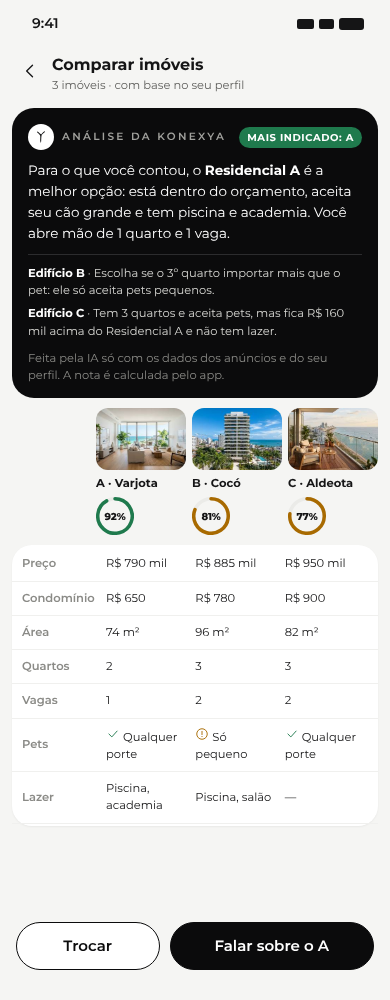
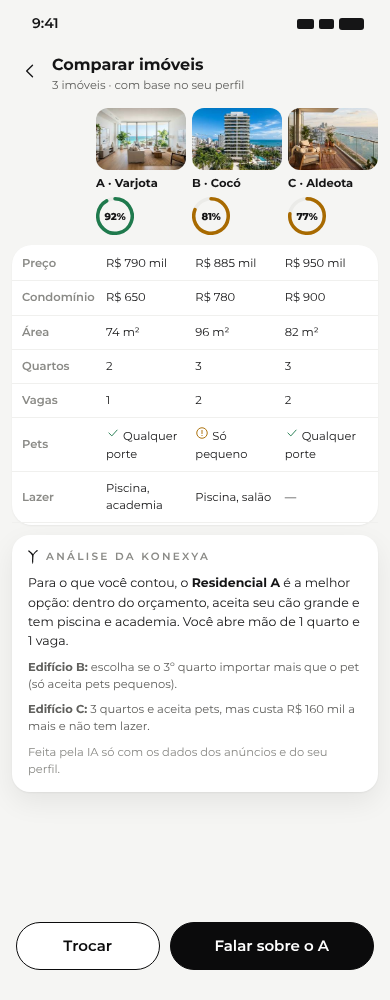
Desenho C-08: análise abaixo da tabela, em cartão leve
Claude-Session: https://claude.ai/code/session_014NosJ4Bs7iu2Vt7Aj83thk

diff --git a/docs/desenhos/etapa3/etapa3.html b/docs/desenhos/etapa3/etapa3.html
@@ -197,20 +197,18 @@ body{background:#d9d9d5}
 </div><div class="compose"><div class="in">Escreva uma mensagem…</div><div class="sendb"><svg data-k="i:send" class="ico " width="19" height="19" viewBox="0 0 24 24" fill="none" stroke="currentColor" stroke-width="1.6" stroke-linecap="round" stroke-linejoin="round"><path d="M4 12 20 4l-6 16-3-7-7-1z"/></svg></div></div><div class="tabs"><div class=""><svg data-k="i:chat" class="ico " width="22" height="22" viewBox="0 0 24 24" fill="none" stroke="currentColor" stroke-width="1.6" stroke-linecap="round" stroke-linejoin="round"><path d="M21 12a8 8 0 0 1-11.6 7.1L4 20l1-4.6A8 8 0 1 1 21 12z"/></svg>Conversa</div><div class="on"><svg data-k="i:broker" class="ico " width="22" height="22" viewBox="0 0 24 24" fill="none" stroke="currentColor" stroke-width="1.6" stroke-linecap="round" stroke-linejoin="round"><path d="M4 5h16v11H9l-5 4z"/><path d="M8 9.5h8M8 12.5h5"/></svg>Corretor<b></b></div><div class=""><svg data-k="i:user" class="ico " width="22" height="22" viewBox="0 0 24 24" fill="none" stroke="currentColor" stroke-width="1.6" stroke-linecap="round" stroke-linejoin="round"><circle cx="12" cy="8" r="4"/><path d="M4 21a8 8 0 0 1 16 0"/></svg>Perfil</div></div></section><section class="frame m" data-name="C-08 Comparação com análise" style="height:1000px"><div class="sb" style="color:#151516"><span>9:41</span><div class="sbi"><i style="width:17px;height:10px;background:#151516"></i><i style="width:15px;height:10px;background:#151516"></i><i style="width:25px;height:12px;border-radius:3px;background:#151516"></i></div></div>
 <div class="hd"><span><svg data-k="i:back" class="ico " width="20" height="20" viewBox="0 0 24 24" fill="none" stroke="currentColor" stroke-width="1.6" stroke-linecap="round" stroke-linejoin="round"><path d="M15 5l-7 7 7 7"/></svg></span><div style="flex:1"><b style="font-size:16px">Comparar imóveis</b><p class="xs muted">3 imóveis · com base no seu perfil</p></div></div>
 <div style="padding:0 12px;display:flex;flex-direction:column;gap:10px;flex:1">
-<div style="background:#0b0b0c;color:#fff;border-radius:22px;padding:16px 16px 14px;display:flex;flex-direction:column;gap:10px">
-  <div class="between"><div class="row" style="gap:8px"><div class="yav" style="width:26px;height:26px;background:#fff"><svg data-k="y" width="8" height="12" viewBox="0 0 581.0 838.0"><path fill="#0b0b0c" fill-rule="evenodd" d="M538 0 L529 2 L474 47 L373 150 L305 238 L305 245 L316 257 L316 263 L261 206 L232 187 L185 139 L154 117 L143 106 L137 93 L89 56 L56 19 L51 17 L42 18 L25 33 L0 60 L0 71 L3 75 L50 113 L73 136 L89 147 L161 217 L179 240 L201 278 L229 312 L234 324 L239 357 L237 421 L240 460 L234 616 L234 683 L242 714 L246 743 L246 767 L252 804 L252 828 L260 837 L269 835 L273 830 L274 813 L280 805 L286 783 L299 753 L305 719 L303 621 L307 603 L307 547 L311 510 L311 470 L321 375 L321 343 L326 321 L332 304 L345 282 L347 273 L396 210 L462 142 L491 120 L502 108 L527 92 L538 80 L557 71 L569 69 L577 64 L580 51 L574 37 L565 28 L549 17 L545 6Z"/></svg></div><span class="trk" style="color:#a1a19d">Análise da Konexya</span></div><span class="tag" style="background:#1f7a4d;color:#fff">Mais indicado: A</span></div>
-  <p style="font-size:13.5px;line-height:1.55">Para o que você contou, o <b>Residencial A</b> é a melhor opção: está dentro do orçamento, aceita seu cão grande e tem piscina e academia. Você abre mão de 1 quarto e 1 vaga.</p>
-  <div style="display:flex;flex-direction:column;gap:6px;border-top:1px solid #2c2c2e;padding-top:10px">
-    <p class="xs" style="line-height:1.5;color:#d6d6d2"><b style="color:#fff">Edifício B</b> · Escolha se o 3º quarto importar mais que o pet: ele só aceita pets pequenos.</p>
-    <p class="xs" style="line-height:1.5;color:#d6d6d2"><b style="color:#fff">Edifício C</b> · Tem 3 quartos e aceita pets, mas fica R$ 160 mil acima do Residencial A e não tem lazer.</p>
-  </div>
-  <p class="xs" style="color:#8a8a86">Feita pela IA só com os dados dos anúncios e do seu perfil. A nota é calculada pelo app.</p>
-</div>
 <div style="display:grid;grid-template-columns:78px 1fr 1fr 1fr;gap:6px">
[1 lines of base64/hex data omitted]
 </div>
 <div class="group" style="padding:2px 0">
 <div style="display:grid;grid-template-columns:78px 1fr 1fr 1fr;gap:6px;padding:8px 10px;border-bottom:1px solid #f0f0ee;align-items:center"><span class="xs muted2" style="font-weight:600">Preço</span><span class=xs>R$ 790 mil</span><span class=xs>R$ 885 mil</span><span class=xs>R$ 950 mil</span></div><div style="display:grid;grid-template-columns:78px 1fr 1fr 1fr;gap:6px;padding:8px 10px;border-bottom:1px solid #f0f0ee;align-items:center"><span class="xs muted2" style="font-weight:600">Condomínio</span><span class=xs>R$ 650</span><span class=xs>R$ 780</span><span class=xs>R$ 900</span></div><div style="display:grid;grid-template-columns:78px 1fr 1fr 1fr;gap:6px;padding:8px 10px;border-bottom:1px solid #f0f0ee;align-items:center"><span class="xs muted2" style="font-weight:600">Área</span><span class=xs>74 m²</span><span class=xs>96 m²</span><span class=xs>82 m²</span></div><div style="display:grid;grid-template-columns:78px 1fr 1fr 1fr;gap:6px;padding:8px 10px;border-bottom:1px solid #f0f0ee;align-items:center"><span class="xs muted2" style="font-weight:600">Quartos</span><span class=xs>2</span><span class=xs>3</span><span class=xs>3</span></div><div style="display:grid;grid-template-columns:78px 1fr 1fr 1fr;gap:6px;padding:8px 10px;border-bottom:1px solid #f0f0ee;align-items:center"><span class="xs muted2" style="font-weight:600">Vagas</span><span class=xs>1</span><span class=xs>2</span><span class=xs>2</span></div><div style="display:grid;grid-template-columns:78px 1fr 1fr 1fr;gap:6px;padding:8px 10px;border-bottom:1px solid #f0f0ee;align-items:center"><span class="xs muted2" style="font-weight:600">Pets</span><span class=xs><span class="ok"><svg data-k="i:check" class="ico " width="14" height="14" viewBox="0 0 24 24" fill="none" stroke="currentColor" stroke-width="1.6" stroke-linecap="round" stroke-linejoin="round"><path d="m5 12 5 5 9-10"/></svg></span> Qualquer porte</span><span class=xs><span class="warn"><svg data-k="i:alert" class="ico " width="14" height="14" viewBox="0 0 24 24" fill="none" stroke="currentColor" stroke-width="1.6" stroke-linecap="round" stroke-linejoin="round"><circle cx="12" cy="12" r="9"/><path d="M12 7.5v5.5M12 16.2v.3"/></svg></span> Só pequeno</span><span class=xs><span class="ok"><svg data-k="i:check" class="ico " width="14" height="14" viewBox="0 0 24 24" fill="none" stroke="currentColor" stroke-width="1.6" stroke-linecap="round" stroke-linejoin="round"><path d="m5 12 5 5 9-10"/></svg></span> Qualquer porte</span></div><div style="display:grid;grid-template-columns:78px 1fr 1fr 1fr;gap:6px;padding:8px 10px;border-bottom:1px solid #f0f0ee;align-items:center"><span class="xs muted2" style="font-weight:600">Lazer</span><span class=xs>Piscina, academia</span><span class=xs>Piscina, salão</span><span class=xs>—</span></div>
+</div>
+<div class="wcard" style="padding:14px 16px;display:flex;flex-direction:column;gap:8px;border-radius:18px">
+  <div class="row" style="gap:8px"><svg data-k="y" width="10" height="14" viewBox="0 0 581.0 838.0"><path fill="#0b0b0c" fill-rule="evenodd" d="M538 0 L529 2 L474 47 L373 150 L305 238 L305 245 L316 257 L316 263 L261 206 L232 187 L185 139 L154 117 L143 106 L137 93 L89 56 L56 19 L51 17 L42 18 L25 33 L0 60 L0 71 L3 75 L50 113 L73 136 L89 147 L161 217 L179 240 L201 278 L229 312 L234 324 L239 357 L237 421 L240 460 L234 616 L234 683 L242 714 L246 743 L246 767 L252 804 L252 828 L260 837 L269 835 L273 830 L274 813 L280 805 L286 783 L299 753 L305 719 L303 621 L307 603 L307 547 L311 510 L311 470 L321 375 L321 343 L326 321 L332 304 L345 282 L347 273 L396 210 L462 142 L491 120 L502 108 L527 92 L538 80 L557 71 L569 69 L577 64 L580 51 L574 37 L565 28 L549 17 L545 6Z"/></svg><span class="trk">Análise da Konexya</span></div>
+  <p class="small" style="line-height:1.55">Para o que você contou, o <b>Residencial A</b> é a melhor opção: dentro do orçamento, aceita seu cão grande e tem piscina e academia. Você abre mão de 1 quarto e 1 vaga.</p>
+  <p class="xs muted" style="line-height:1.5"><b class="ink">Edifício B:</b> escolha se o 3º quarto importar mais que o pet (só aceita pets pequenos).</p>
+  <p class="xs muted" style="line-height:1.5"><b class="ink">Edifício C:</b> 3 quartos e aceita pets, mas custa R$ 160 mil a mais e não tem lazer.</p>
+  <p class="xs muted2">Feita pela IA só com os dados dos anúncios e do seu perfil.</p>
 </div>
 </div>
 <div style="padding:12px 16px 30px;display:flex;gap:10px"><div class="btn sec" style="flex:1">Trocar</div><div class="btn" style="flex:1.6">Falar sobre o A</div></div></section><section class="frame m" data-name="C-09 Salvos" style="height:844px"><div class="sb" style="color:#151516"><span>9:41</span><div class="sbi"><i style="width:17px;height:10px;background:#151516"></i><i style="width:15px;height:10px;background:#151516"></i><i style="width:25px;height:12px;border-radius:3px;background:#151516"></i></div></div>
